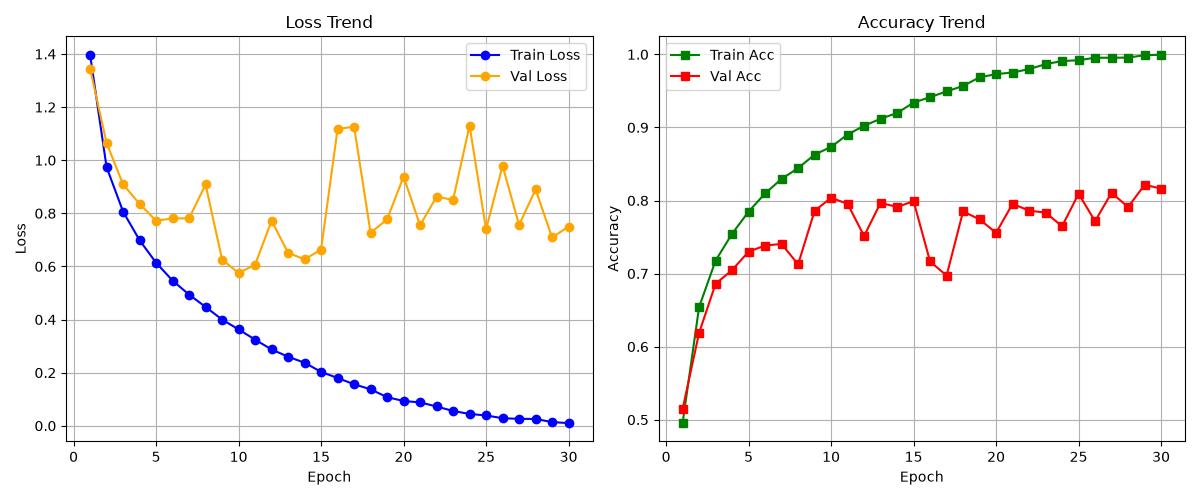
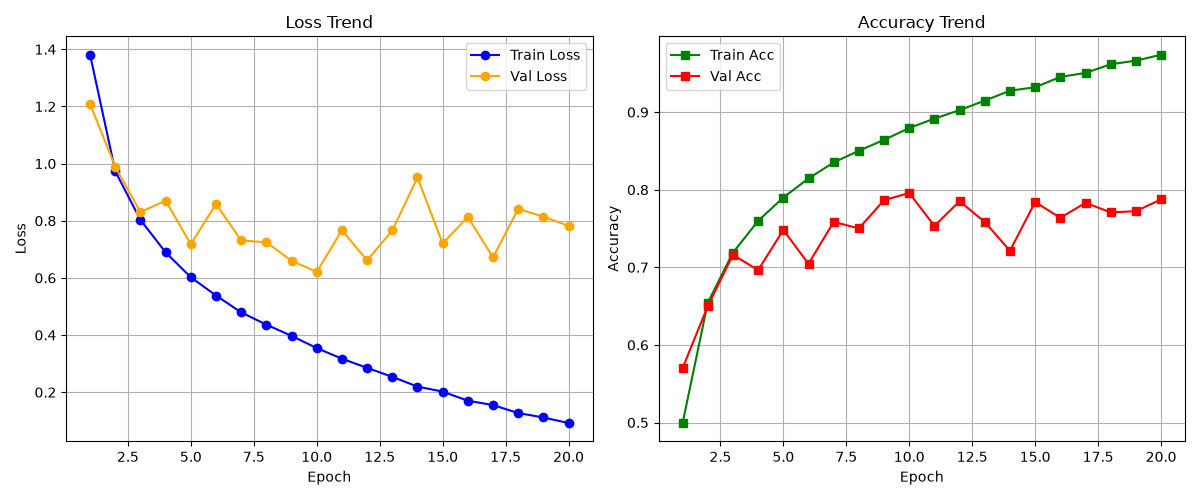
wandb

diff --git a/docs/06_experiments.md b/docs/06_experiments.md
@@ -108,7 +108,7 @@
 >  learning rate   0.005
 >  weight_decay = 0.0
 >  momentum = 0.9
->  drop 
+>  dropout = 0
 
 
 ![](../img/train_plt.png)
@@ -131,7 +131,7 @@
 >  width 64
 >  learning rate  0.005 
 
-![](../img/overfitting_plot.png)
+![](../img/overfitting_plot2.png)
 
 > [ 분석 ]
 > 1.100 epoch이 2분 안에 끝났다.
@@ -149,18 +149,25 @@
 
 
 ### 2). Early Stopping과 Checkpoint 직접 구현
-## train.py에 추가해야한다.
-## 8월 27일 여기 까지했다.
 
+- Accuracy의 경우, epoch이 증가함에 따라 높은 Cofidence를 가지고 맞히거나 틀리기 때문에 Loss를 기준으로 성능 평가를 하는 것이 맞다.
+- 
+- GPU 시간이 무한하다면, Patience를 아주 크게 잡고 끝까지 돌린 후, 가장 Best CheckPoint를 찾는 것이 좋다. Loss는 정체기에 있더라도 변동성이 있기 때문에 많은 반복을 통해 최선의 경우를 찾을 수 있다.
+- 
+- GPU 시간이 유한하다면, Patience를 작게 설정하여 일찍 멈추는 것이 좋다. 무의미한 과적합을 보는 것 보다 다른 하이퍼파라미터로 실험을 해보는 것이 더 유리하다.
+- 
 
 ---
 
 ## 5. 실험 관리 도구
+- Wandb Ai 툴
+- 
 
-
+---
 ## 6.  통제 실험
 
 
 
+---
 ## 7. 함정 체험
 
